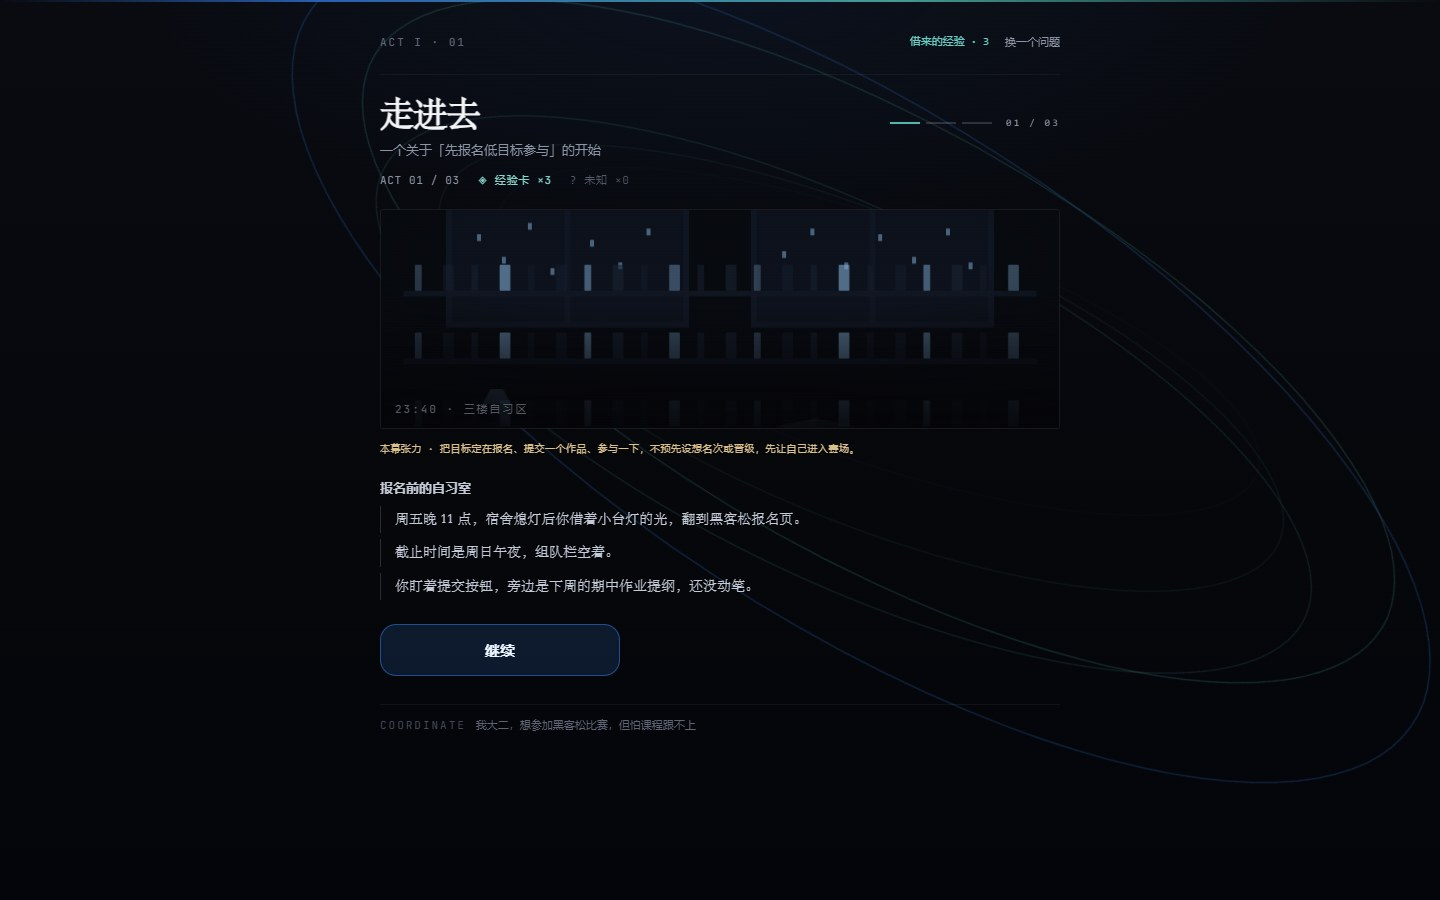
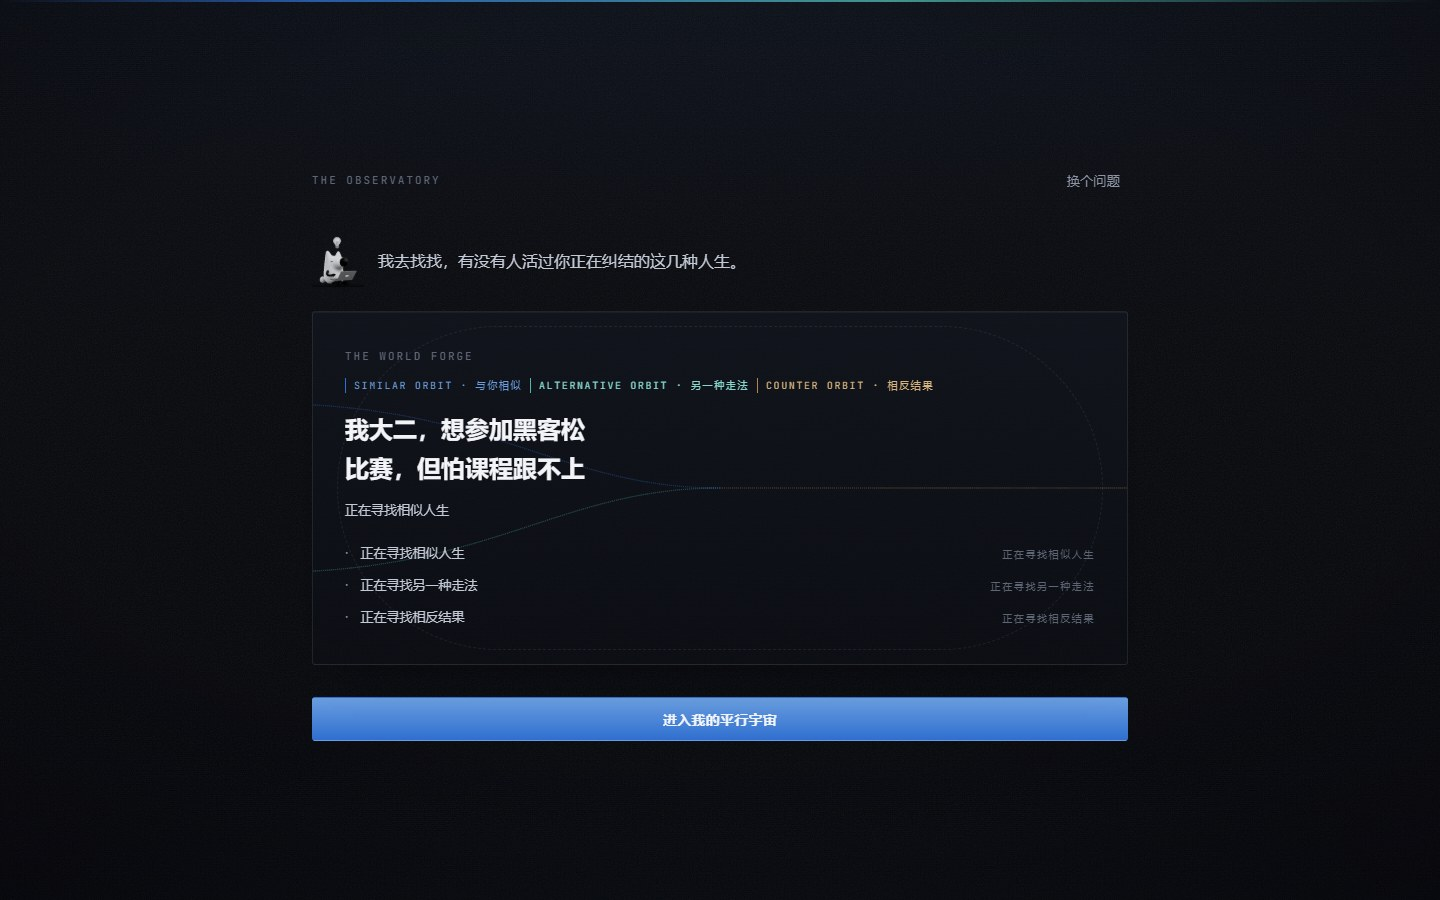
docs: README 截图按内容重命名，去掉自曝错位的注释
截图文件名与画面内容长期不符，而整套测试全绿 —— 没有任何断言
检查过 README 引用的图与 public/screenshots/ 里的文件是否一致。
仓库还用一条 HTML 注释把这个错位当成交付说明写了下来，
等于公开承认「宣传图与文件对不上」。

逐张看图核实后的实际情况：
  endgame.jpg        实为 World Forge 三条轨道
  world-forge.jpg    实为第一幕「走进去」
  play-act1.jpg      实为第一幕（真正对得上，却没被 README 引用）
  session-ready.jpg  实为第一幕 + 借来的经验卡（不是「世界就绪」屏）
  home.jpg / session-clarify.jpg  名实相符

改动：
- endgame.jpg → world-forge.jpg（按内容改名，不是重拍）
- session-ready.jpg → experience-card.jpg（它拍的是经验卡）
- 删除重复的第一幕截图（旧 world-forge.jpg，play-act1.jpg 已覆盖）
- README 引用同步；不再摆一张冒充终局的图（仓库里本就没有终局截图）
- 新增 tests/readmeScreenshots.test.ts：引用必存在 + 目录不许有孤儿图
  （错位正是靠"多余的旧名文件留在目录里"存活的）

注：图片内容对不对机器判不了，仍需人眼；测试只兜住命名与引用一致。

diff --git a/tests/readmeScreenshots.test.ts b/tests/readmeScreenshots.test.ts
@@ -1,0 +1,60 @@
+import { readFileSync, readdirSync } from 'node:fs';
+import { join } from 'node:path';
+
+import { describe, expect, it } from 'vitest';
+
+/**
+ * README 截图契约。
+ *
+ * ## 为什么需要它
+ *
+ * 这份 README 曾经长期挂着一处「文件名与画面内容不符」的错位：
+ * `endgame.jpg` 实际是 World Forge、`world-forge.jpg` 实际是第一幕推演，
+ * 而 `play-act1.jpg`（真正的第一幕）根本没被引用。
+ *
+ * 更糟的是，仓库里用一条 HTML 注释**把这个错位写了下来**当作交付说明 ——
+ * 等于公开承认「我们的宣传图与文件对不上」。而整套测试全绿：
+ * 没有任何断言检查过 README 引用的图片与 `public/screenshots/` 里的文件是否一致。
+ *
+ * 所以这里补两道闸：
+ *
+ * 1. **引用必须存在** —— 否则 GitHub 上就是死图；
+ * 2. **不许有孤儿图** —— 目录里的每一张都必须被引用。
+ *    错位正是靠"多余的旧名文件留在目录里"存活的：
+ *    只要你按内容重命名，孤儿检查就会立刻逼你更新引用。
+ *
+ * 图的内容对不对（是首页还是终局）机器判不了，那仍然要靠人眼；
+ * 但"名字与引用对得上"必须由测试兜住。
+ */
+const root = join(process.cwd());
+const readme = readFileSync(join(root, 'README.md'), 'utf8');
+
+const IMAGE_RE = /screenshots\/([\w.-]+\.(?:jpg|jpeg|png|webp))/gi;
+
+describe('README 截图契约', () => {
+  it('引用的每张截图都真实存在，且目录里没有未被引用的孤儿图', () => {
+    const onDisk = readdirSync(join(root, 'public', 'screenshots'))
+      .filter((name) => /\.(jpg|jpeg|png|webp)$/i.test(name))
+      .sort();
+
+    const referenced = [...readme.matchAll(IMAGE_RE)]
+      .map((match) => match[1])
+      .filter((name, index, all) => all.indexOf(name) === index)
+      .sort();
+
+    const missing = referenced.filter((name) => !onDisk.includes(name));
+    expect(missing, `README 引用了不存在的截图（GitHub 上会是死图）：${missing.join(', ')}`).toEqual([]);
+
+    const orphan = onDisk.filter((name) => !referenced.includes(name));
+    expect(
+      orphan,
+      `这些截图没被 README 引用 —— 要么在 README 里用上它，要么删掉：${orphan.join(', ')}`,
+    ).toEqual([]);
+  });
+
+  it('不再保留「文件名与内容不符」这类自曝注释', () => {
+    // 交付说明里不该出现"图片对不上"的自我承认：要么改好，要么不写。
+    expect(readme).not.toMatch(/文件名与画面内容并不完全对应/);
+    expect(readme).not.toMatch(/按内容改名/);
+  });
+});

diff --git a/README.md b/README.md
@@ -8,16 +8,24 @@
 
 **知乎黑客松 2026 · 校园新锐季** | 主赛道：跨次元游乐场 | 关联方向：知识炼金场
 
-<!-- 截图文件名与画面内容并不完全对应（endgame.jpg 实际是 World Forge，world-forge.jpg 实际是第一幕推演）。
-     重拍时建议按内容改名，别按旧名沿用。 -->
+<!--
+  截图按**画面内容**命名（文件名即内容），不要按历史沿用的旧名改图。
+  当前 5 张都是桌面端 1440×900 实拍：
+    home.jpg              首页 · 命运观象厅
+    session-clarify.jpg   动态澄清
+    world-forge.jpg       World Forge · 三条轨道
+    play-act1.jpg         推演 · 第一幕「走进去」
+    experience-card.jpg   借来的经验卡
+  仓库里没有真实的终局截图，所以这里也不摆一张冒充终局的图。
+-->
 <p align="center">
   <a href="./public/screenshots/home.jpg"><img src="./public/screenshots/home.jpg" width="32%" alt="首页 · 命运观象厅" /></a>
   <a href="./public/screenshots/session-clarify.jpg"><img src="./public/screenshots/session-clarify.jpg" width="32%" alt="动态澄清 · 只问会改变结论的事" /></a>
-  <a href="./public/screenshots/endgame.jpg"><img src="./public/screenshots/endgame.jpg" width="32%" alt="World Forge · 相似 / 另一种走法 / 相反结果 三条轨道" /></a>
+  <a href="./public/screenshots/world-forge.jpg"><img src="./public/screenshots/world-forge.jpg" width="32%" alt="World Forge · 相似 / 另一种走法 / 相反结果 三条轨道" /></a>
 </p>
 <p align="center">
-  <a href="./public/screenshots/world-forge.jpg"><img src="./public/screenshots/world-forge.jpg" width="32%" alt="推演 · 第一幕：走进去" /></a>
-  <a href="./public/screenshots/session-ready.jpg"><img src="./public/screenshots/session-ready.jpg" width="32%" alt="借来的经验 · 一条真实经历解锁一个原本不存在的行动" /></a>
+  <a href="./public/screenshots/play-act1.jpg"><img src="./public/screenshots/play-act1.jpg" width="32%" alt="推演 · 第一幕：走进去" /></a>
+  <a href="./public/screenshots/experience-card.jpg"><img src="./public/screenshots/experience-card.jpg" width="32%" alt="借来的经验 · 一条真实经历解锁一个原本不存在的行动" /></a>
 </p>
 
 <p align="center"><sub>桌面端截图（1440×900）· 点击任意一张可看原图 · 首页 → 动态澄清 → World Forge → 第一幕 → 借来的经验</sub></p>
